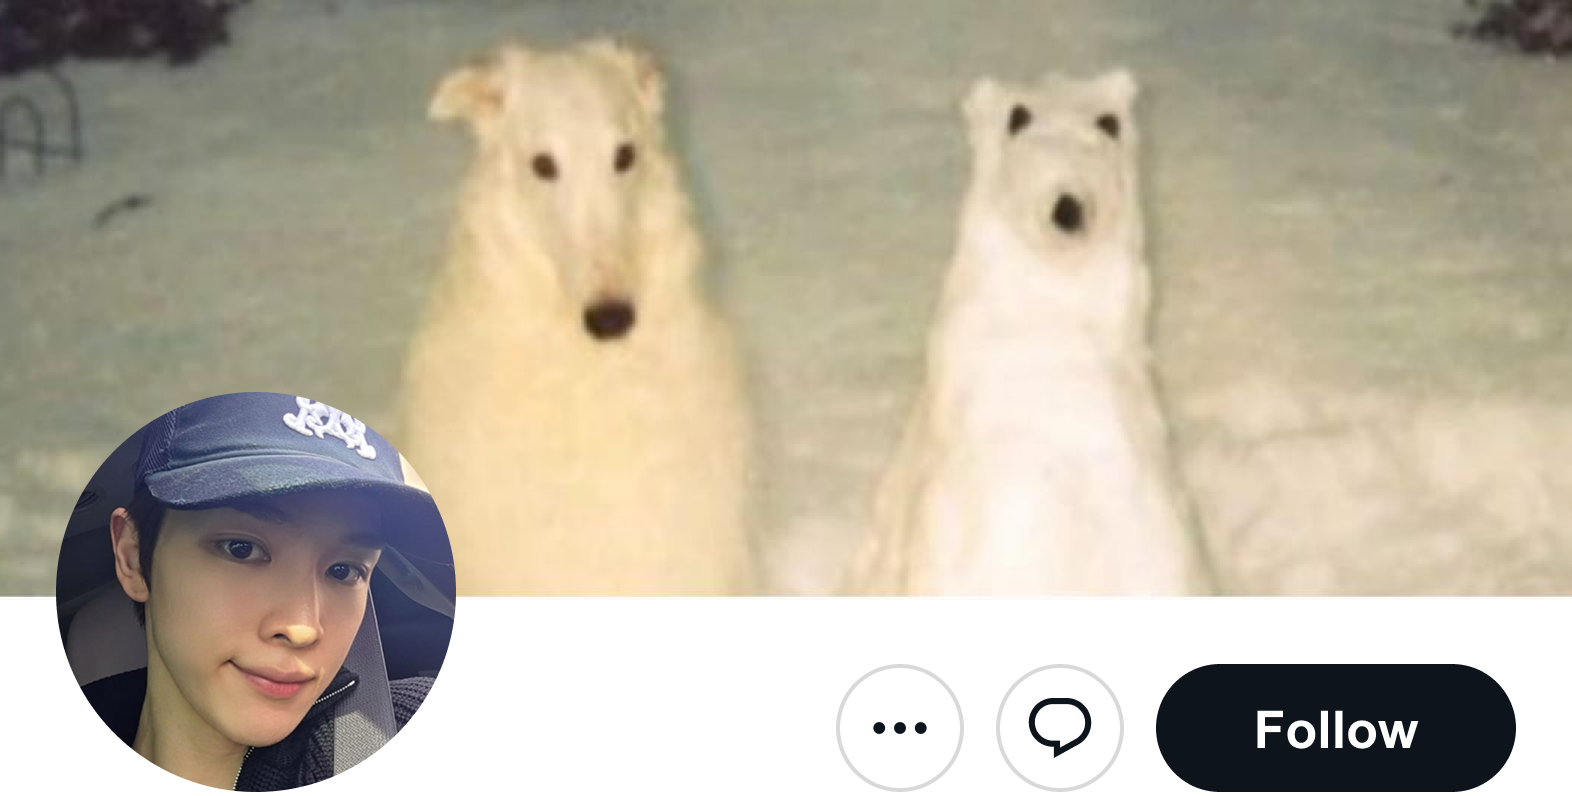
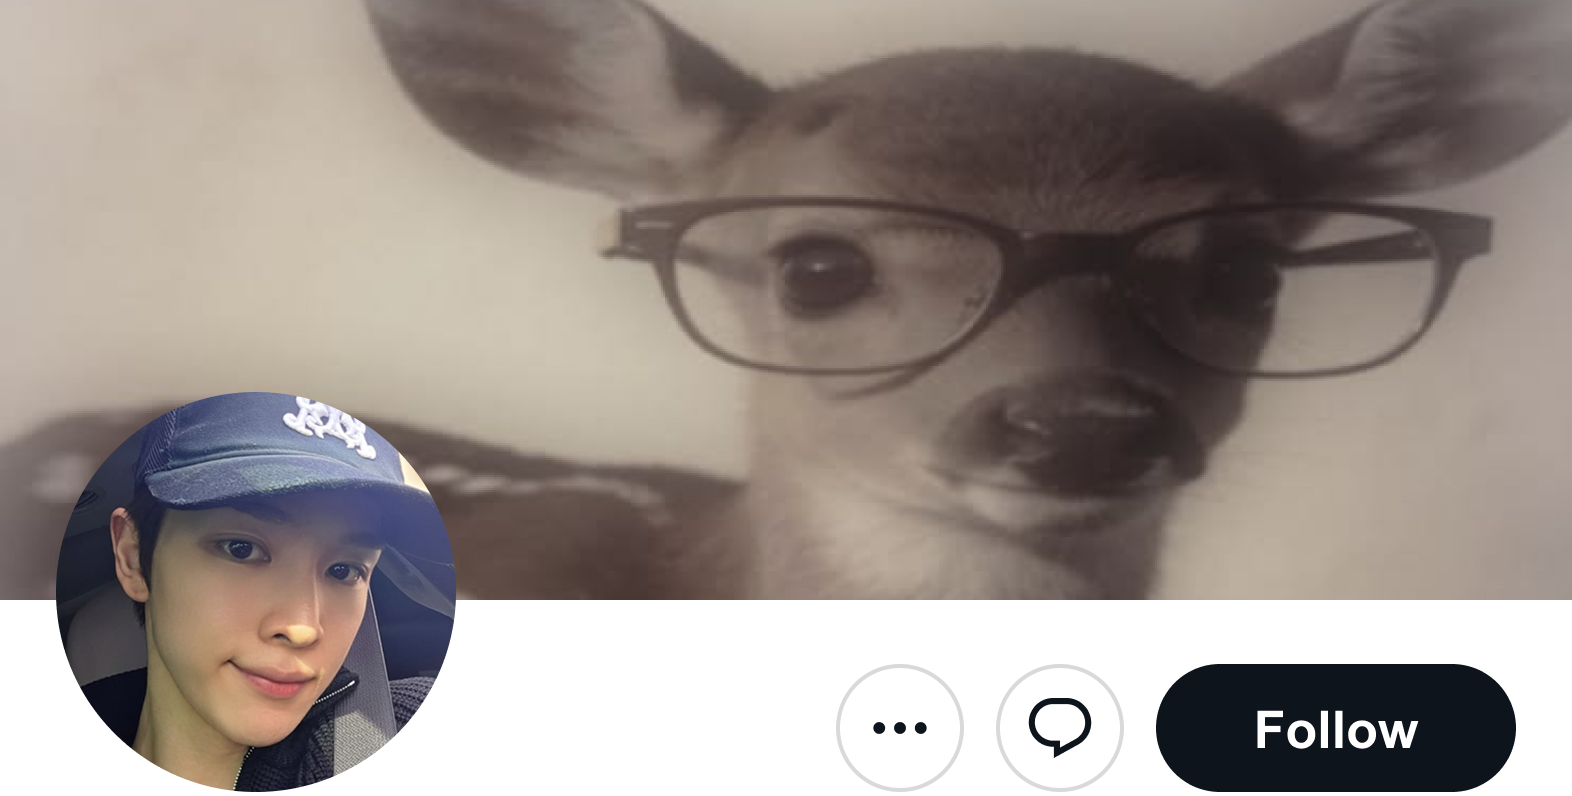
Update draft

diff --git a/index.html b/index.html
@@ -16,12 +16,12 @@ OPT + CMD ]
 
 -->
 <head>
-  <link rel="stylesheet" type="text/css" href="stylesheet_v4.css" />
+  <link rel="stylesheet" type="text/css" href="stylesheet_v4.css"/>
 </head>
 
 <body>
   <h1> Intro 1</h1>
-
+  
   <p><p>"I don't think this is going to work."</p><p>Sungchan expected to hear those words the moment he sat down for this stupid blind date, but he hoped to say them first. Like 10 minutes into their meetup, because he was already disinterested prior to coming in, but he had to endure at least an hour after all the tedious and completely unsolicited effort Eunseok put in to set this up. Sigh.</p><p>"Yeah, I agree. Maybe we could stay in touch?" Not that Sungchan would, but he had to be polite. "It was nice to meet you—"</p><p>"You know, word of advice. Don't lie about yourself if you want to date someone."</p><p>Sungchan blinked, confused at the sudden change in atmosphere. "Excuse me?"</p><p>The person across from him scoffed and rolled their eyes. "Don't play dumb. You've got some nerve lying to me on a first date. I've never dated anyone before. Drop that crazy purity act, it's just a sorry excuse for being emotionally unavailable."</p><p>Okay, ouch. "Well, it is true. This is the first date I've ever been on in my life—"</p><p>"With that face and that body? Un-fucking-believable. What kind of 24 year old has never dated? What, are you going to lie to me again and say you never even had sex?"</p><p>Sungchan flushed, a mixture of anger and embarrassment bubbling inside him. What was happening? "And what's wrong with being a virgin?" he defensively replied. <em>And</em> immediately regretted it, because that was a damning admission and this stranger <em>did not</em> need further confirmation from him.</p><p>"Being a virgin means you've still got the mind of an immature child. You haven't developed the functionalities to be a normal adult. If we dated, then I'd have to handhold you and coddle you, which I don't have the time for. And then I'd have to deal with you being a fucking liar."</p><p>Sungchan curled his hands into fists to suppress the anger inside him. He didn't need to be scolded like this, getting told off for being exactly what he was, <em>an inexperienced virgin</em>, sexually and romantically. His friends couldn't care less about it, his family didn't either, not really anyway except for asking twice a year around the holidays if he was seeing anyone, because <em>"It's nice if someone looked after you too, Sungchanie."</em> But they never pressured him into dating someone. </p><p>So of course, the one time he tried dating, even at low stakes and low effort, backfired on him terribly. It was a train wreck that he couldn't have even seen coming.</p><p>He took a deep shuddering breath, ears burning and blood racing, feeling like he might throw up a little of the coffee he had, which tasted real bland and acrid. Even that should've been a premonition of what was to come.</p><p>He could barely hear his own thoughts, but he was still well-aware of the stares of everyone around them who were badly pretending to not listen to their little one-sided deranged argument. Sungchan swallowed and said, as politely and firmly as he could, "Well, good thing this isn't going to work out. Please do not contact me, <em>ever</em>. In this lifetime or the next."</p><p>He stood up noisily, chair screeching across the floor as he gathered up his things. The person's eyes bulged, mouth squawking like a bird, "<em>Yah!</em> Where are you going?!"</p><p>Sungchan stormed away, head held high despite his desire to run and hide so bad. He wasn't the bad guy in this situation, he didn't say or do anything wrong except be honest. But it was still the shittiest feeling ever. </p><p>And it was definitely in his Top 5 Most Humiliating Experiences ever, and Sungchan didn't get embarrassed easily. But to hear all of that on Valentine's Day too, surrounded by a bunch of couples on their own dates—WELL FUCK YOU, SONG EUNSEOK, YOU SICK SON OF A BITCH!!!</p>
 
   <hr>
@@ -30,7 +30,7 @@ OPT + CMD ]
   <div class="wrapper">
   <!-- twt account -->
     <div class="account_header">
-      <img src="images/account_sungchan_header-follow.png" alt="sungchan account header"/>
+      <img src="https://images.squidge.org/images/2026/09/26/account_sungchan_header-follow.png" alt="sungchan account header"/>
     </div>
 
     <!-- account info -->
